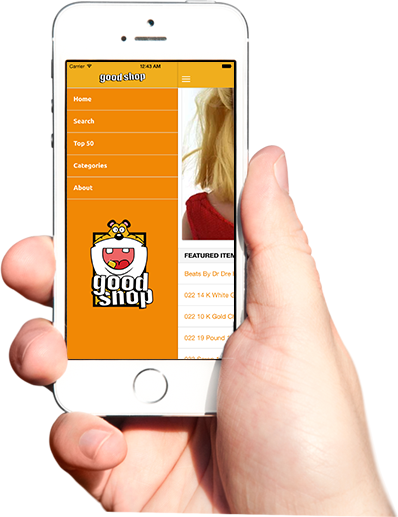
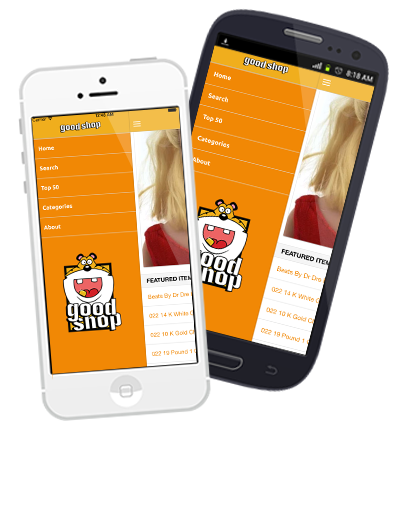
Added apple and Google Play badges

diff --git a/css/style.css b/css/style.css
@@ -434,6 +434,11 @@ nav a#pull {
 	color: #282528;
 	margin-right: 0.6em;
 }
+.big-btns .badges a {
+  border: 0 !important;
+  padding: 0.3em 0.1em;
+  float: left;
+}
 .big-btns a:hover{
 	text-decoration:none;
 	color:#282528;
@@ -461,7 +466,11 @@ nav a#pull {
 	position: absolute;
 	bottom: 0px;
 	z-index: 999;
-	right: 10%;
+  top: 30%;
+	right: 15%;
+}
+a.view{
+  display: none !important;
 }
 .header-section{
 	position:relative;
@@ -843,6 +852,9 @@ p.copy a:hover{
 }
 /*--responsive design--*/
 @media (max-width:1024px){
+  a.view {
+    display: none !important;
+  }
 	.device-demo img{
 		width:80%;
 	}
@@ -851,8 +863,13 @@ p.copy a:hover{
 		left: 8%;
 	}
 	.device-demo{
+    top: 33%;
 		right:0;
 	}
+  .big-btns .badges a {
+    border: 0 !important;
+    padding: 0.3em 0.1em;
+  }
 	.big-device img{
 		width:100%;
 	}
@@ -915,6 +932,11 @@ p.copy a:hover{
 		padding: 0.5em 0.8em 0.5em 0.8em;
 		font-size: 0.8em;
 	}
+  .big-btns .badges a {
+    border: 0 !important;
+    padding: 0.5em 0.1em 0.5em 0.1em;
+    font-size: 0.8em;
+  }
 	.callbacks_tabs a:after {
 		height: 10px;
 		width: 10px;
@@ -945,6 +967,9 @@ p.copy a:hover{
 }
 /*-----640px-mediaquries----*/
 @media (max-width:640px){
+  a.view {
+    display: none !important;
+  }
 	.device-demo img{
 		width: 47%;
 	}
@@ -992,6 +1017,10 @@ p.copy a:hover{
 		padding: 0.3em 0.8em;
 		font-size: 0.8em;
 	}
+  .big-btns .badges a {
+    border: 0 !important;
+    padding: 0.3em 0.1em;
+  }
 	.callbacks_tabs a:after {
 		height: 10px;
 		width: 10px;
@@ -1031,6 +1060,9 @@ p.copy a:hover{
 }
 /*-----480px-mediaquries----*/
 @media (max-width:480px){
+  a.view {
+    display: none !important;
+  }
 	.device-demo img{
 		width: 35%;
 	}
@@ -1079,6 +1111,10 @@ p.copy a:hover{
 		padding: 0.5em 0.8em;
 		font-size: 0.7em;
 	}
+  .big-btns .badges a {
+    border: 0 !important;
+    padding: 0.3em 0.1em;
+  }
 	.callbacks_tabs a:after {
 		height: 10px;
 		width: 10px;
@@ -1131,6 +1167,9 @@ p.copy a:hover{
 }
 /*-----320px-mediaquries----*/
 @media (max-width:320px){
+  a.view {
+    display: none !important;
+  }
 	.device-demo img{
 		width: 30%;
 	}
@@ -1182,6 +1221,10 @@ p.copy a:hover{
 		padding: 0.4em 0.5em;
 		font-size: 0.6em;
 	}
+  .big-btns .badges a {
+    border: 0 !important;
+    padding: 0.3em 0.1em;
+  }
 	.callbacks_tabs a:after {
 		height: 10px;
 		width: 10px;

diff --git a/index.html b/index.html
@@ -140,10 +140,13 @@ License URL: http://creativecommons.org/licenses/by/3.0/
 							</div>
 							<div class="clearfix"> </div>
 							<div class="big-btns">
-								<a class="download" href="#" onclick="window.alert('We\'re currently awaiting approval from the Apple Store.')">
-									<label> </label>Waiting on Approval</a>
-								<a class="view" href="#gallery">
-									<label> </label>Vew Gallery</a>
+									<div class="badges">
+										<a href="https://play.google.com/store/apps/details?id=com.goodshop.shopgoodwill" target="_blank" title="Get it on Google Play."><img src="images/google_badge.png" alt="Google Play"></a>
+										<a href="#" onclick="window.alert('We\'re currently awaiting approval from the Apple Store.')" title="Get it in the Apple Store."><img src="images/apple_store_badge.png" alt="Apple Store"></a>
+									</div>
+									<a class="view" href="#gallery">
+										<label> </label>View Gallery
+									</a>
 							</div>
 						</div>
 					</div>
@@ -153,7 +156,7 @@ License URL: http://creativecommons.org/licenses/by/3.0/
 		<div class="clearfix"> </div>
 		<!--device -->
 		<div class="device-demo">
-			<img src="images/device-in-hand.png" title="demo" />
+			<img src="images/device-in-hand.png" title="Good Shop App in Google Play and Apple Store (Waiting on approval)" />
 		</div>
 		<!-- //device -->
 		<!-- //End-slider -->
